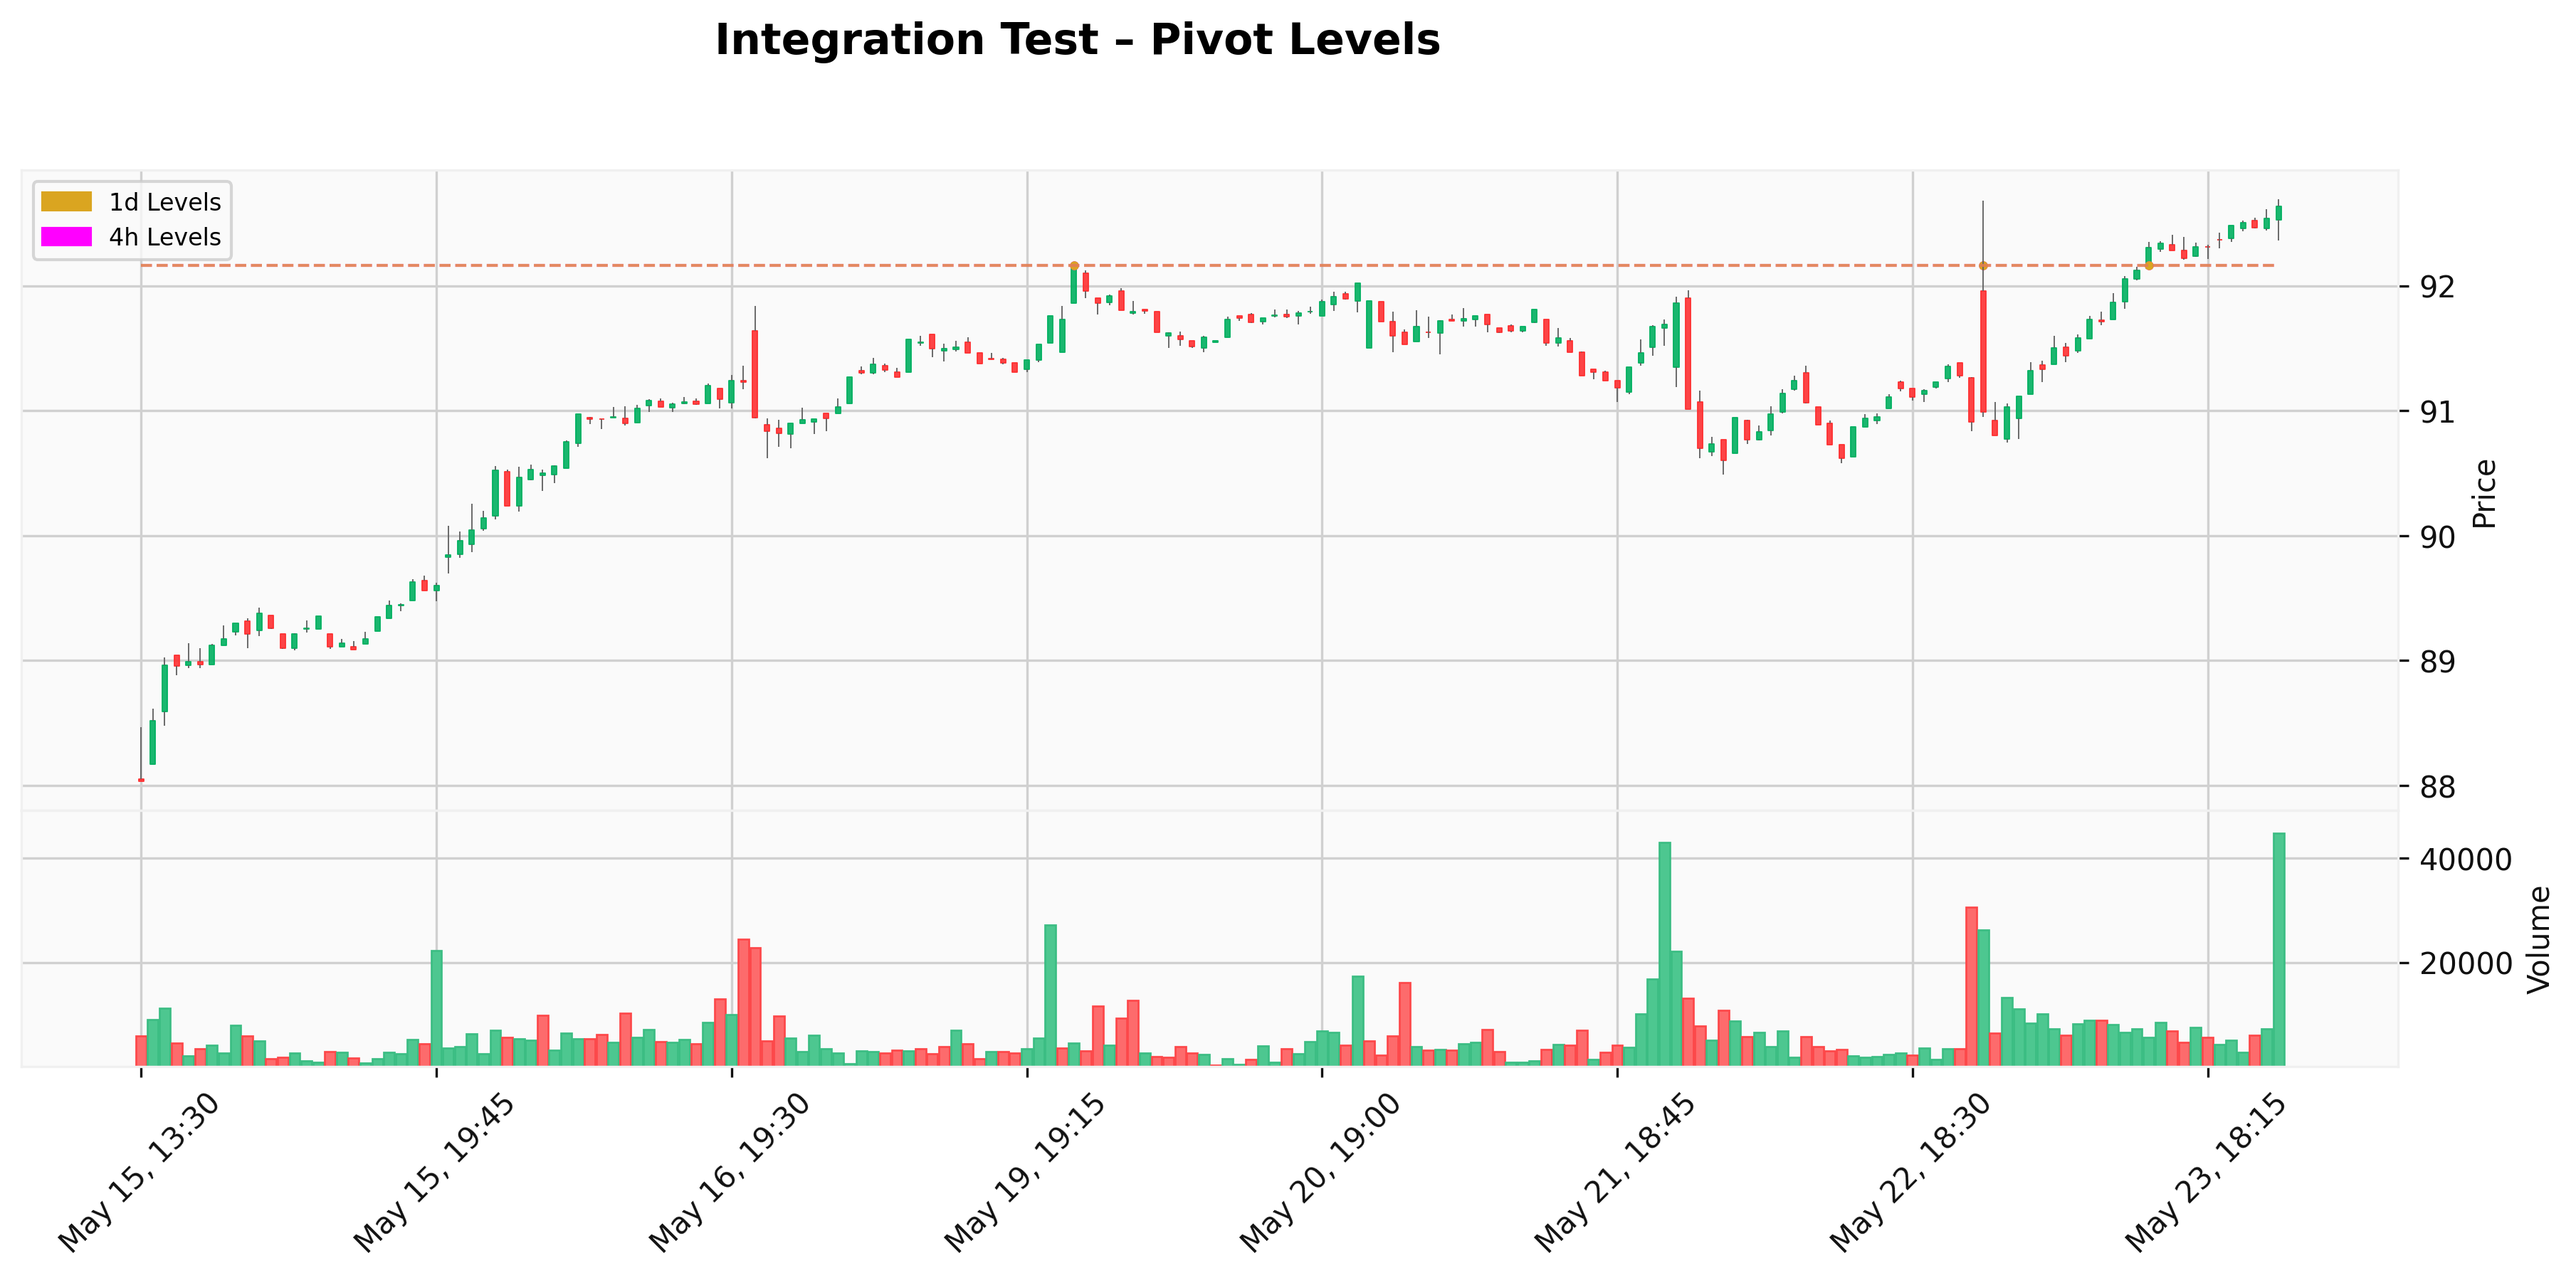
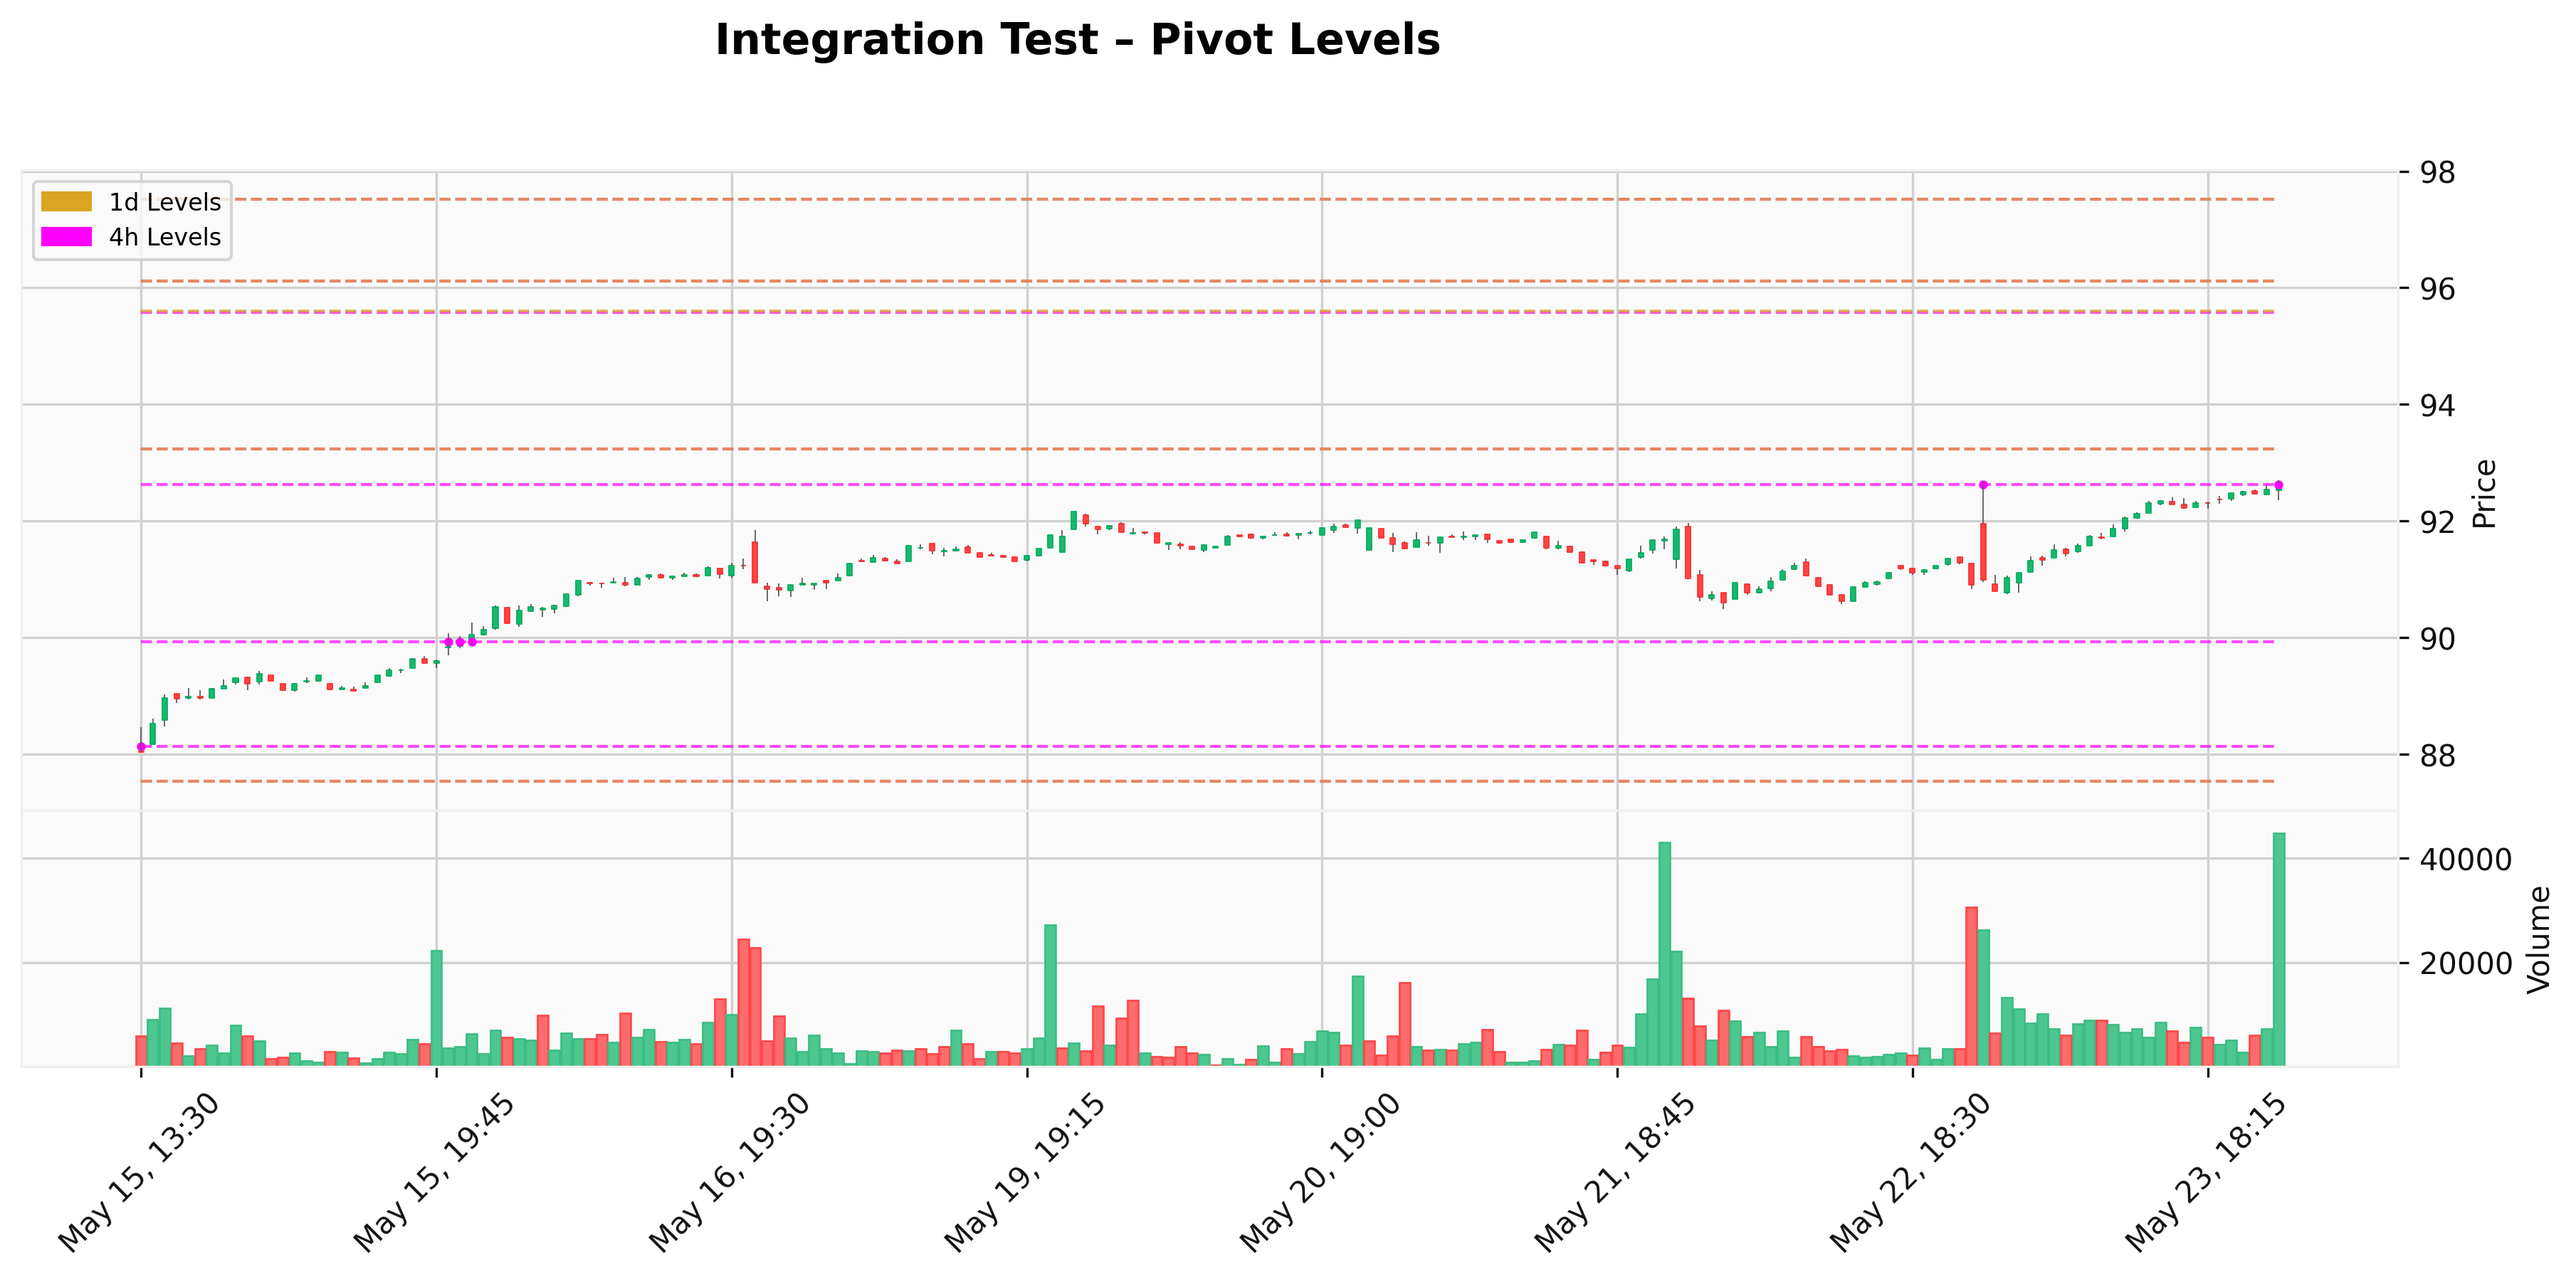
increased the date range for level integration test

diff --git a/tests/test_indicators/test_pivot_level.py b/tests/test_indicators/test_pivot_level.py
@@ -18,7 +18,14 @@ def test_pivot_level_indicator_plot():
     ctx = DataContext(
         symbol="CL",
         start="2025-05-15",
-        end="2025-05-30",
+        end="2025-06-13",
+        interval="15m"
+    )
+
+    indicator_ctx = DataContext(
+        symbol="CL",
+        start="2025-04-01",
+        end="2025-06-13",
         interval="15m"
     )
 
@@ -31,7 +38,7 @@ def test_pivot_level_indicator_plot():
         # Generate pivot levels based on higher timeframe context
         indicator = PivotLevelIndicator.from_context(
             provider=provider,
-            ctx=ctx,
+            ctx=indicator_ctx,
             level_timeframe=tf,
             lookbacks=(2, 3, 5, 10, 20),
         )
